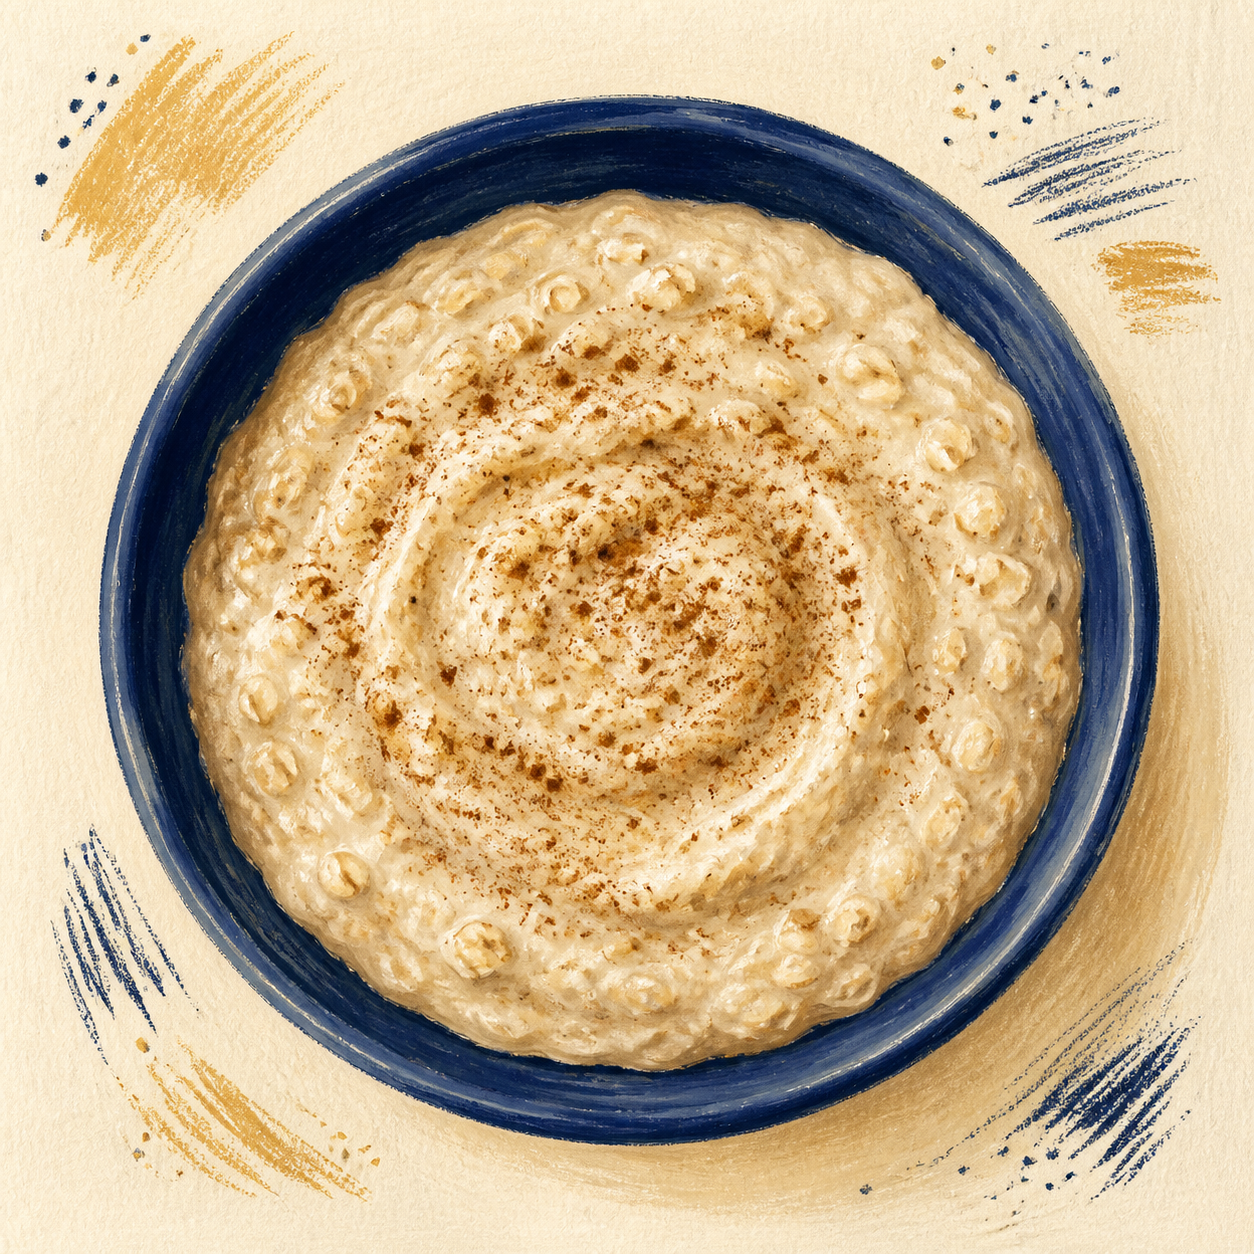
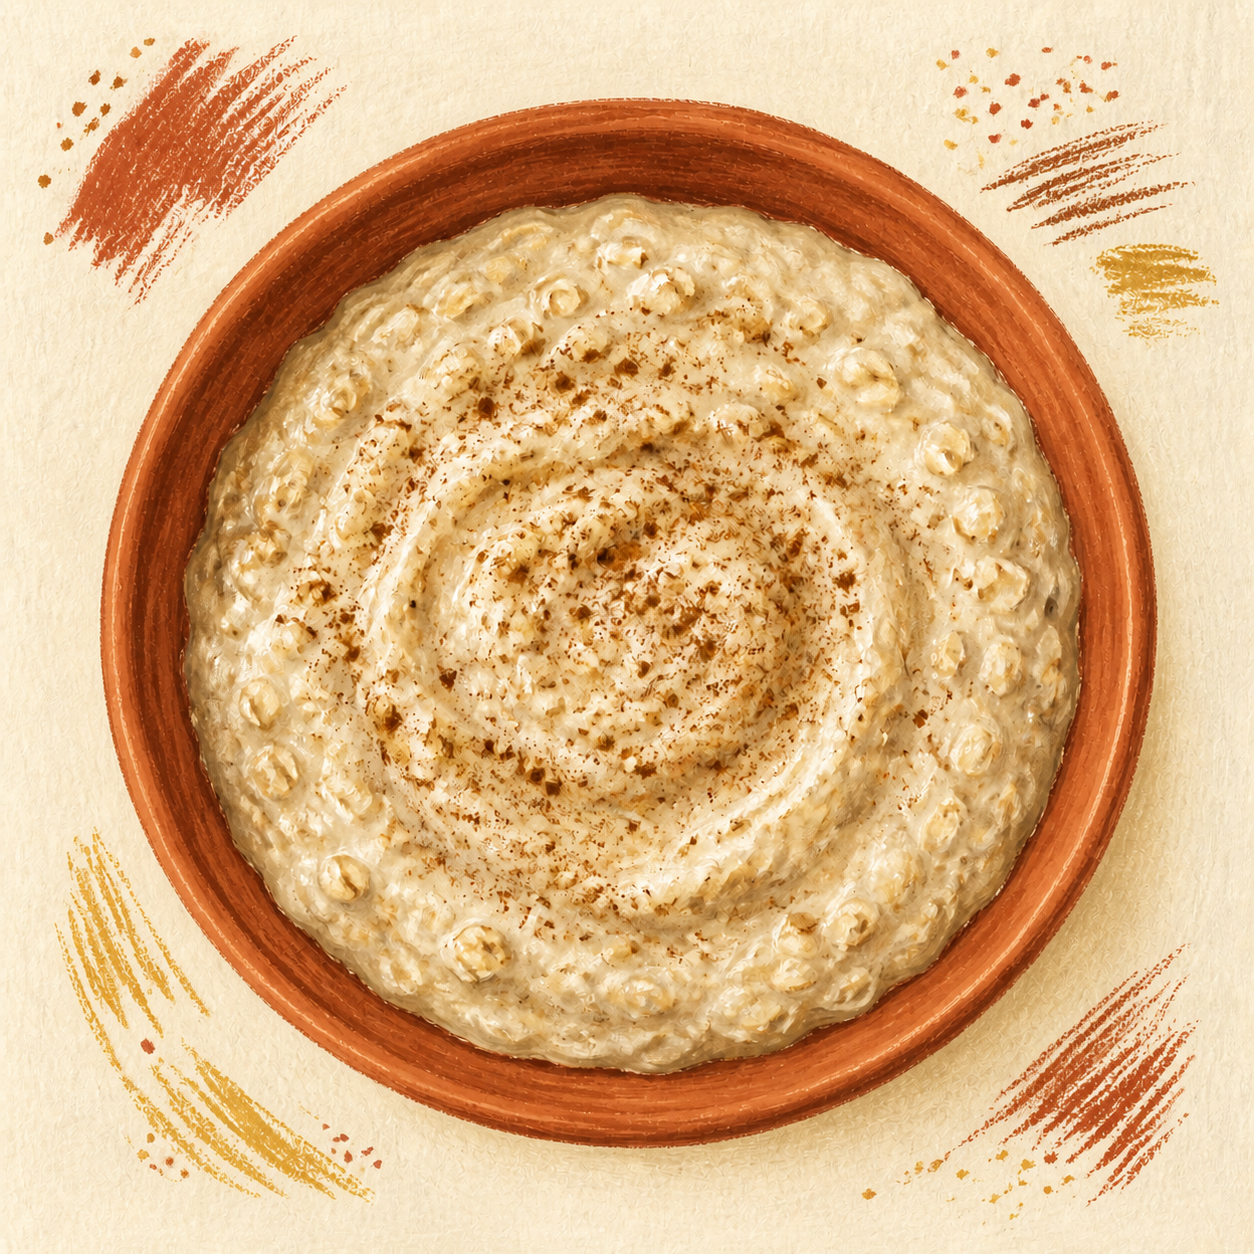
Refresh recipe illustration style and update thumbnail guidance

diff --git a/AGENTS.md b/AGENTS.md
@@ -19,7 +19,7 @@ Do not use em dashes or en dashes. Use commas, parentheses, colons, or regular h
 - Recipe-detail images must use a responsive `srcset` with a 2x-size option for Retina screens and high image quality.
 - Recipe-detail pages derive their 1200 × 630 social image from the same `picture` asset. Use that optimized image for Open Graph, Twitter, and Recipe JSON-LD, never a separate social source image.
 - When generating or editing a food illustration, preserve the existing composition unless the request says otherwise. Inspect the generated result before replacing the shared source asset.
-- Keep recipe thumbnails stylistically consistent: square, slightly top-down food illustrations in a handmade gouache-and-crayon style, with visible paper grain, warm cream backgrounds, a navy ceramic bowl or plate, and sparse navy and golden brush marks. Use bright, appetizing colors, no text, no logos, and no photorealism.
+- Keep recipe thumbnails stylistically consistent: square, strict orthographic overhead food illustrations in a handmade gouache-and-crayon style, with visible paper grain and warm cream backgrounds. Center the circular bowl or plate at a consistent scale, with its outer edge around 84% of the canvas and roughly 8% clear margin on every side. Choose a different ceramic color for each recipe that complements or contrasts well with the food, and carry that palette into the sparse decorative brush marks. Review the existing recipe gallery before choosing a color so the collection does not default to navy or become visually repetitive. Use bright, appetizing colors, no text, no logos, and no photorealism.
 
 ## Recipe localization
 
